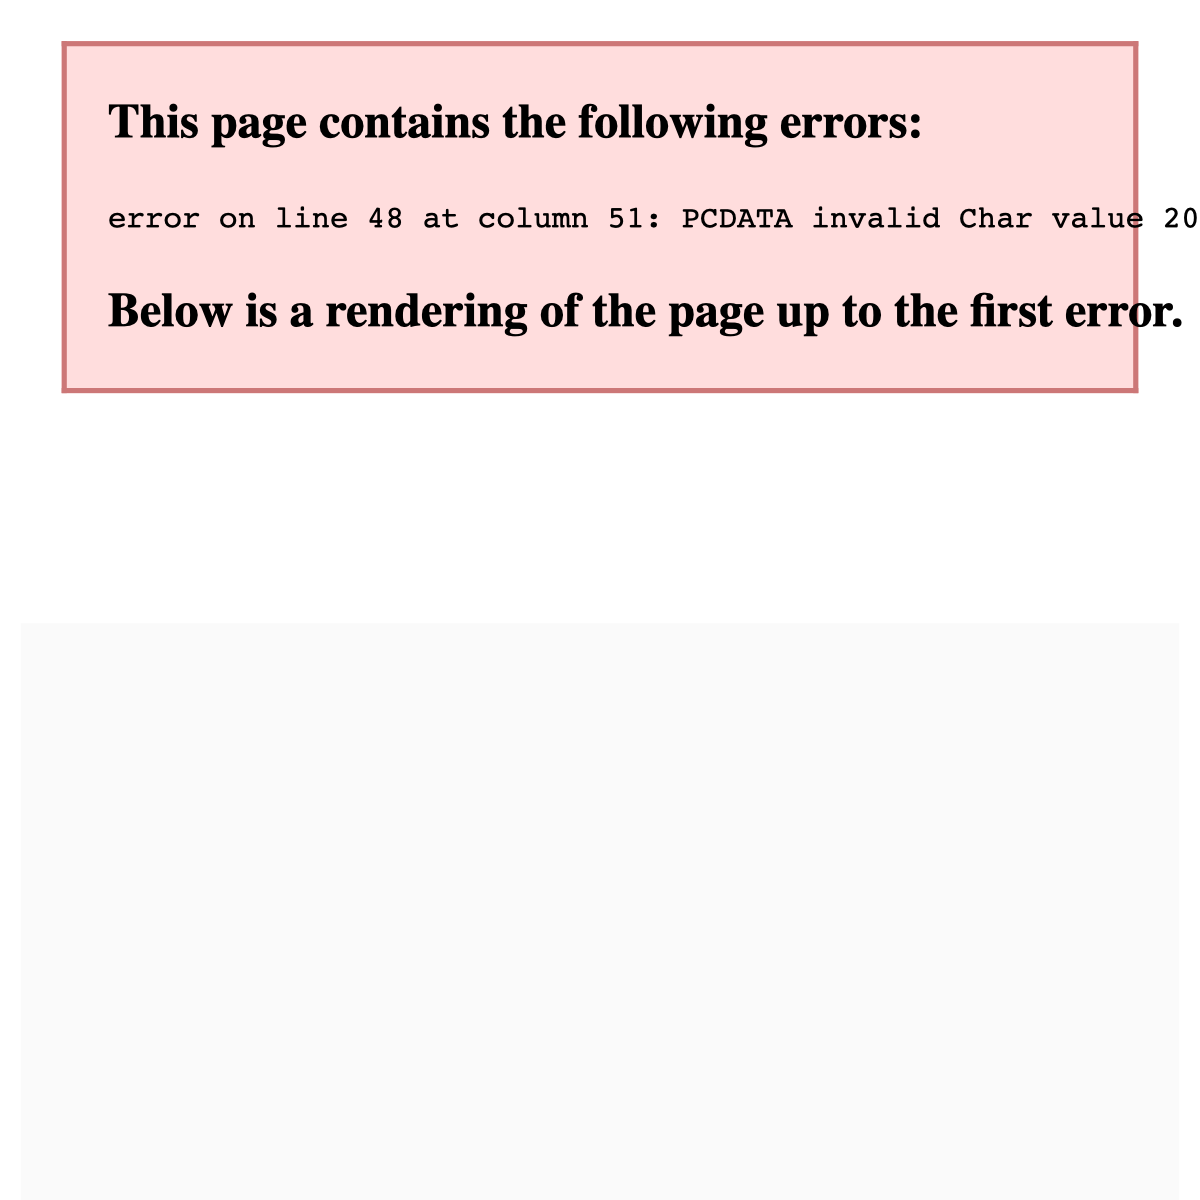
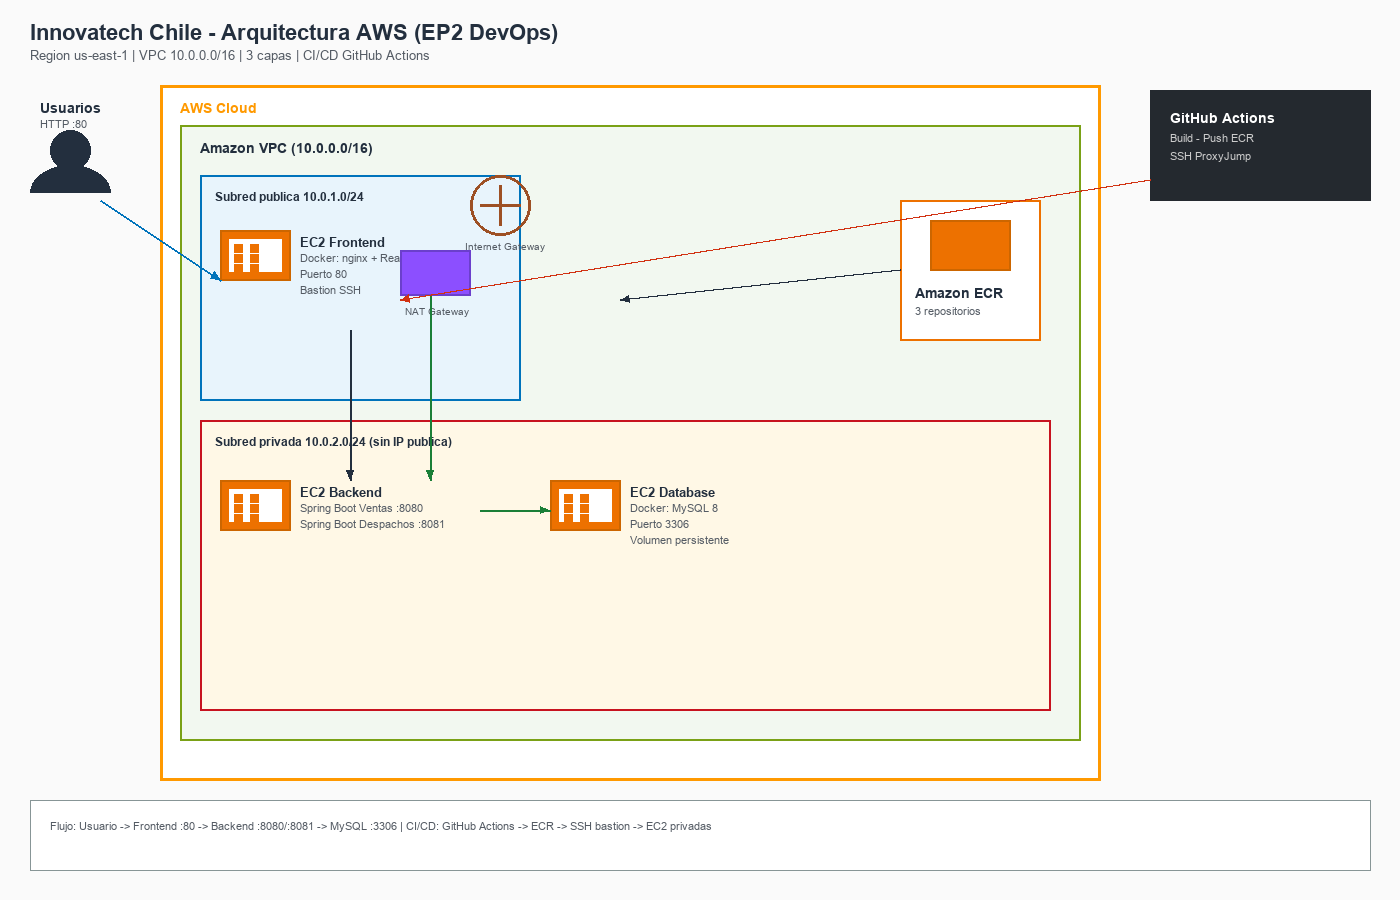
Regenera diagrama PNG de arquitectura AWS para README

diff --git a/README.md b/README.md
@@ -45,13 +45,7 @@ flowchart TB
     NAT --- B
 ```
 
-<p align="center">
-  <img
-    src="https://raw.githubusercontent.com/MonserratHL/Devops-EV2/main/docs/arquitectura-aws.png"
-    alt="Diagrama de arquitectura AWS Innovatech Chile"
-    width="900"
-  />
-</p>
+![Diagrama de arquitectura AWS Innovatech Chile](docs/arquitectura-aws.png)
 
 > **Editar el diagrama visual:** [`docs/arquitectura-aws.drawio`](docs/arquitectura-aws.drawio) en [diagrams.net](https://app.diagrams.net) (libreria AWS19). Exporta PNG y reemplaza `docs/arquitectura-aws.png`.
 